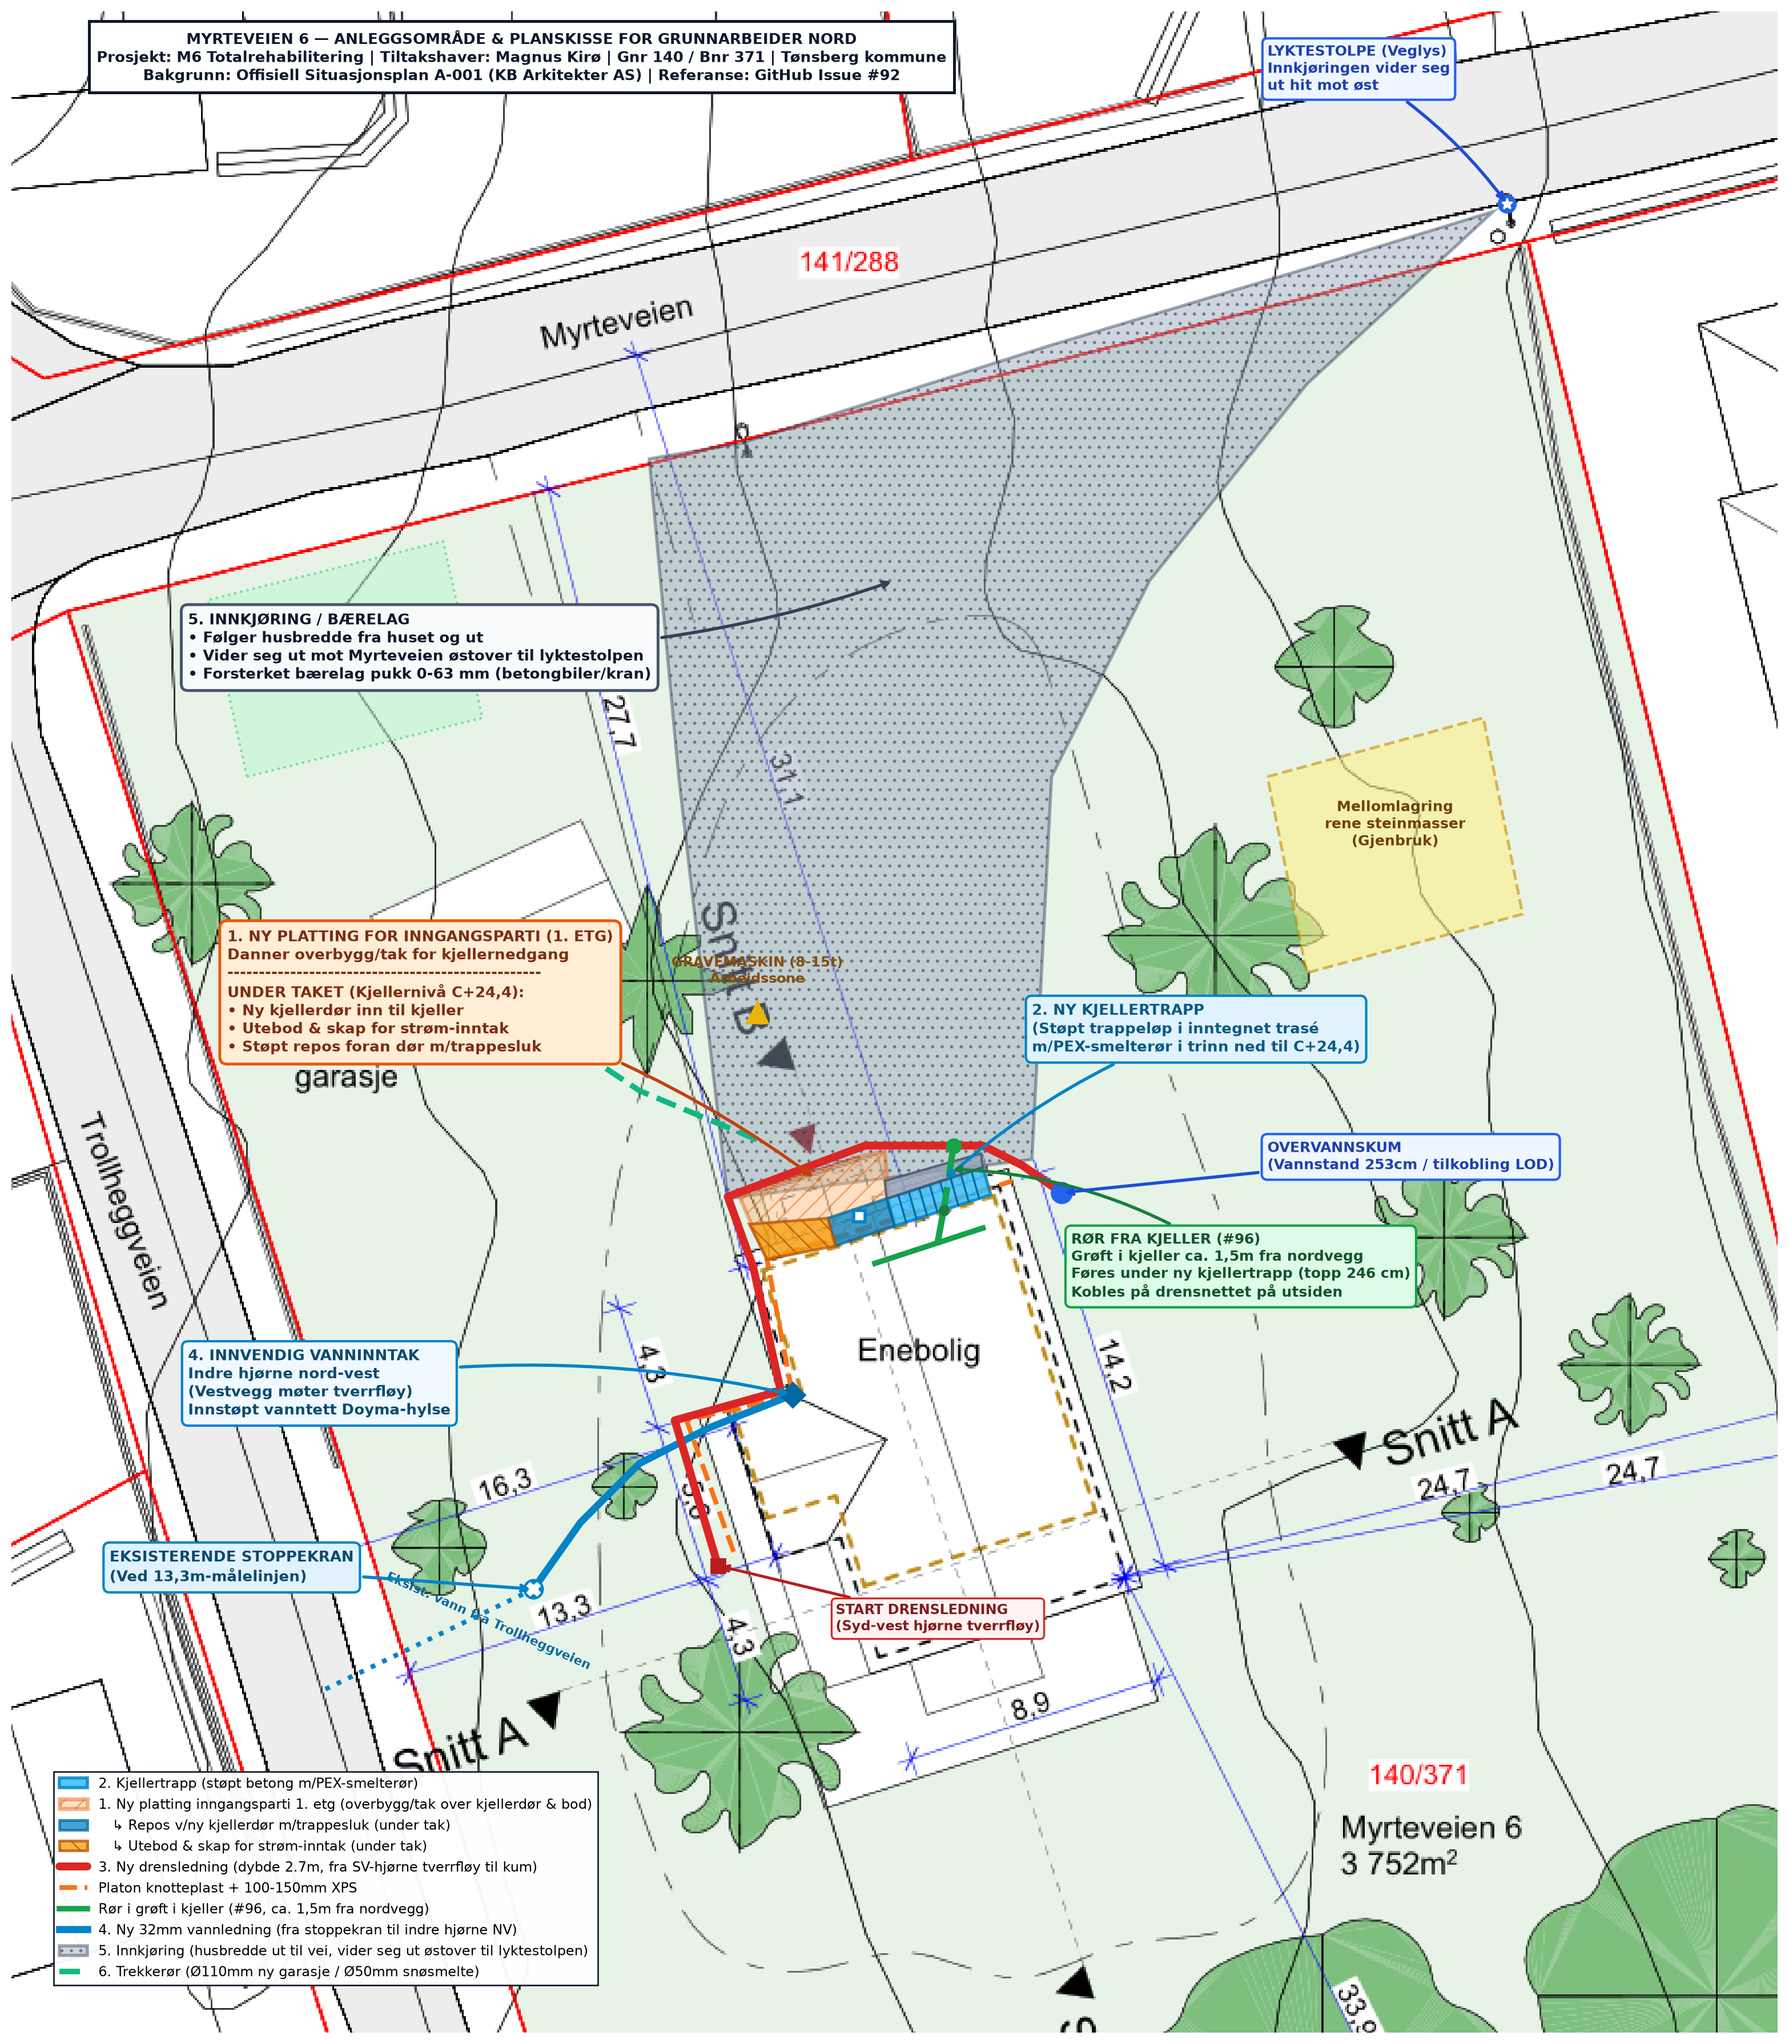
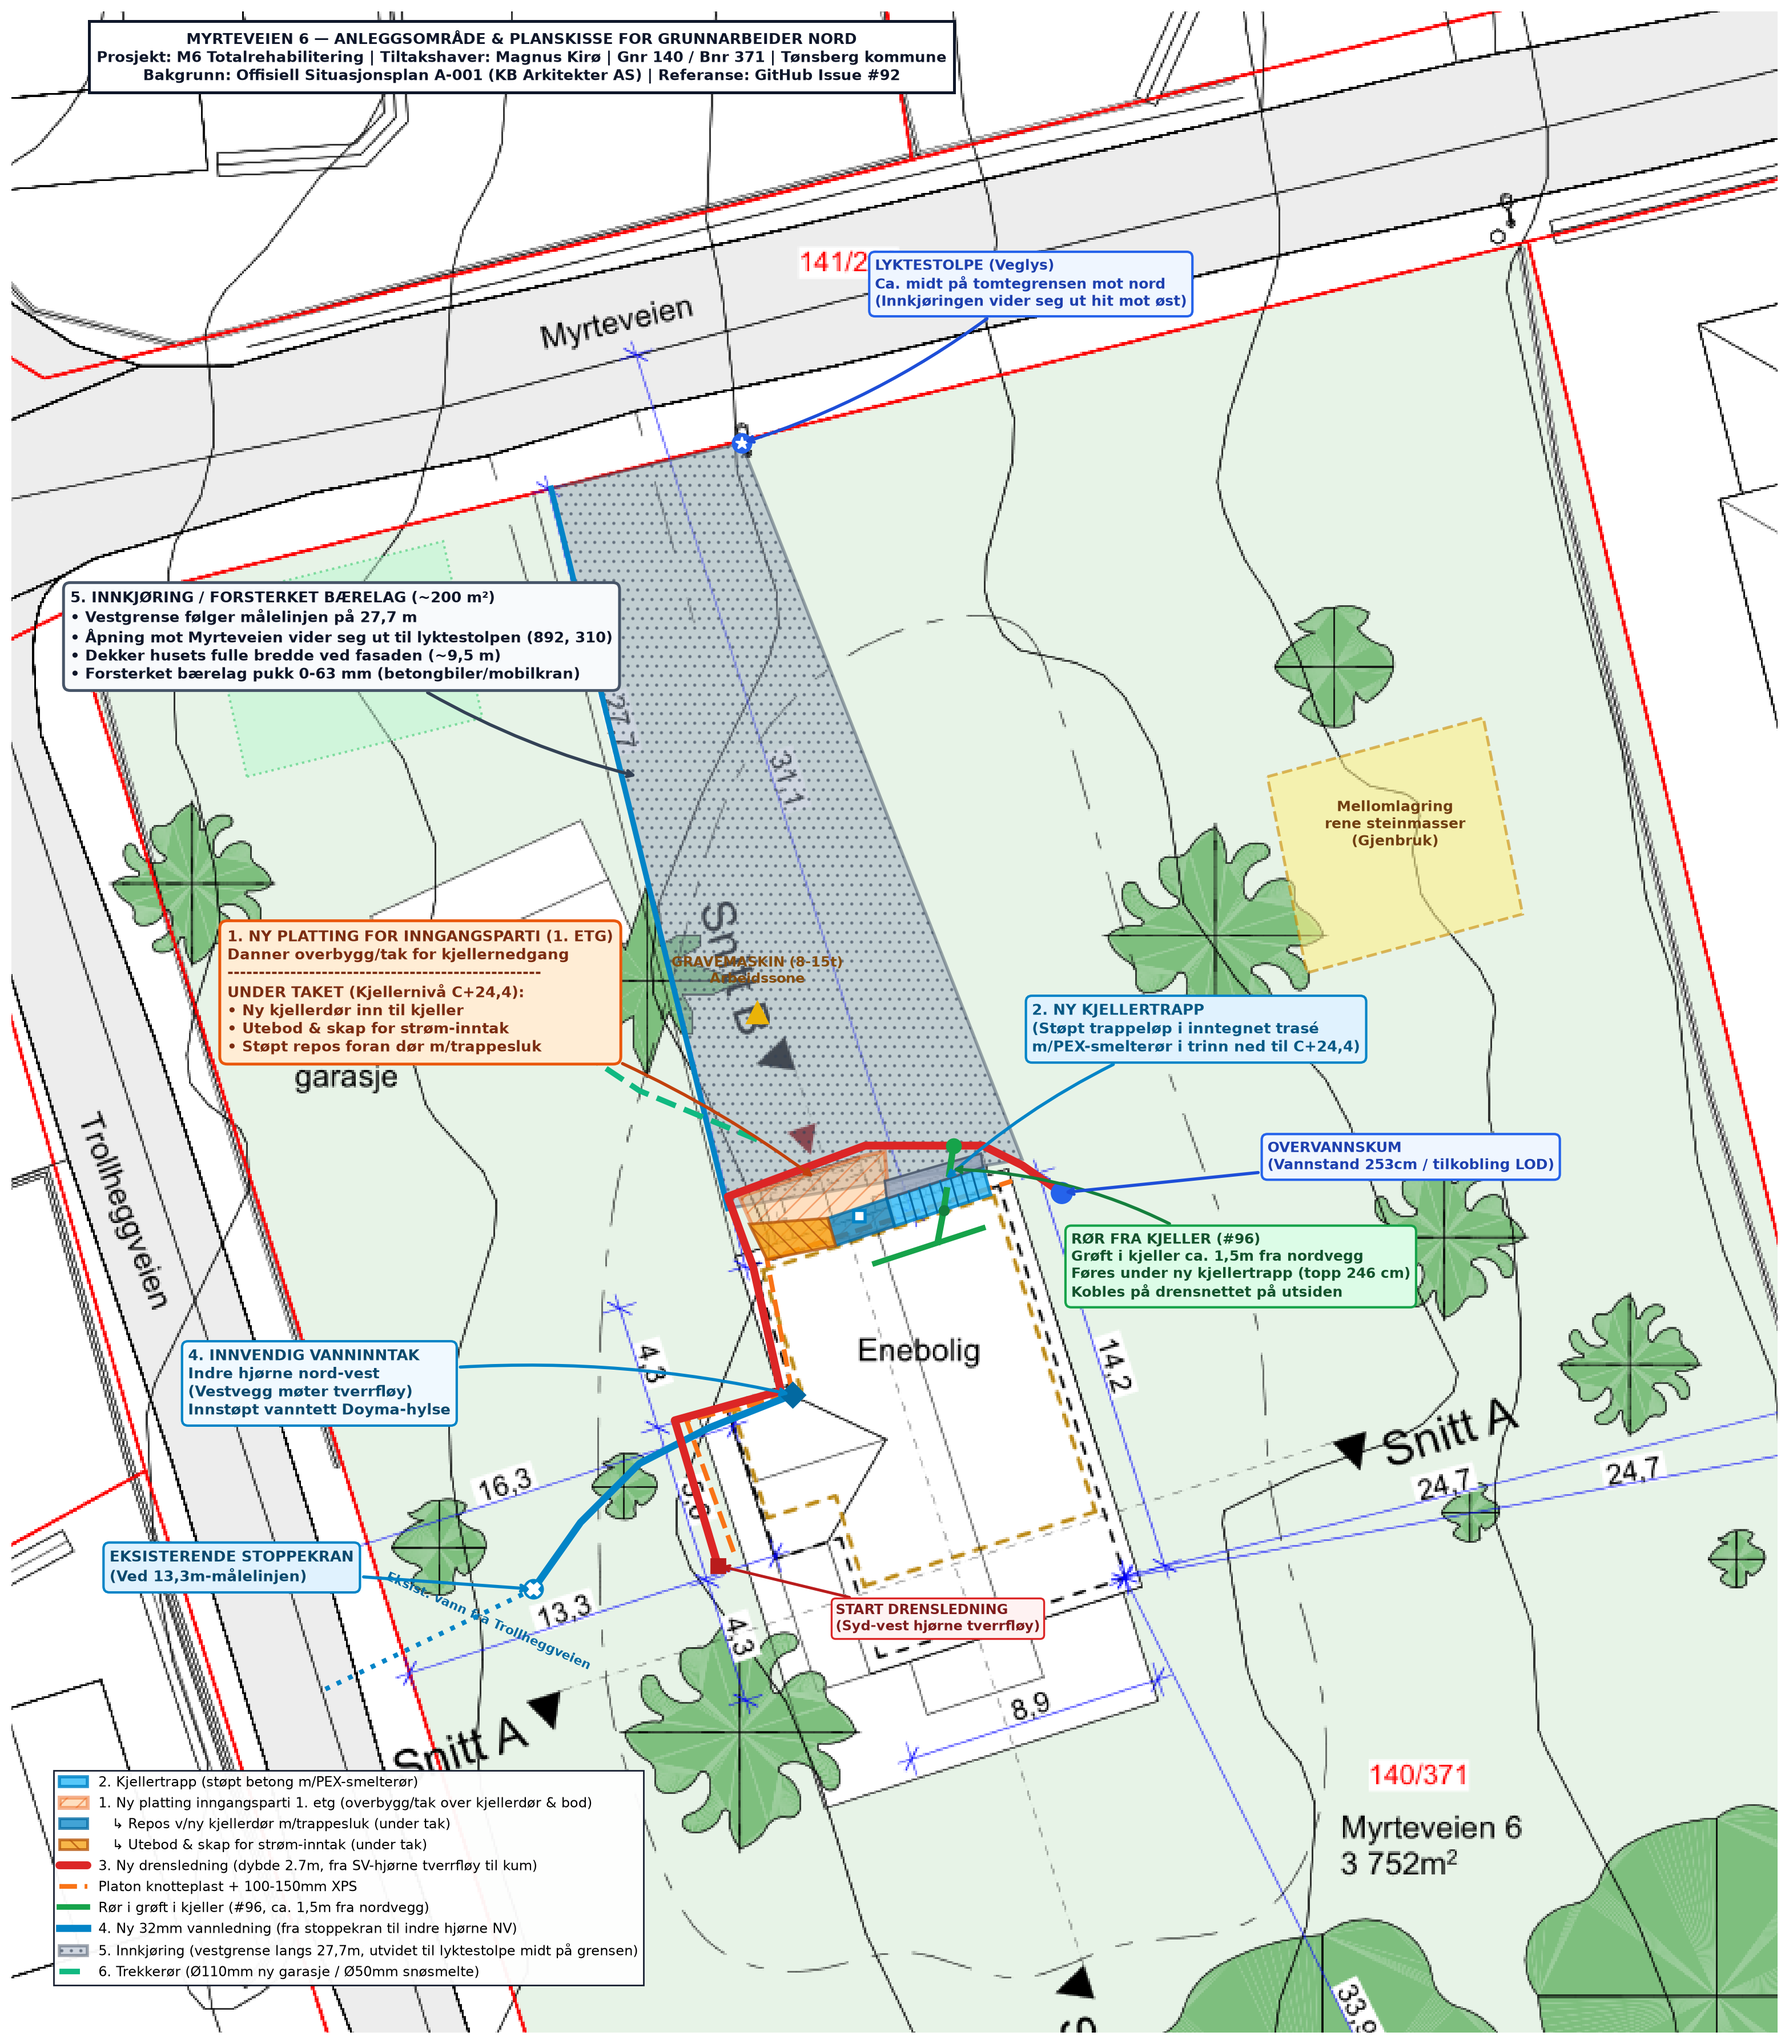
fix(nord): align driveway west edge to 27.7m line and lamppost at north boundary midpoint (#92)

diff --git a/scripts/generate_site_plan.py b/scripts/generate_site_plan.py
@@ -238,45 +238,44 @@ ax.annotate(
 )
 
 # -------------------------------------------------------------
-# 5. INNKJØRING (HUSBREDDE HELT UT TIL VEIEN, VIDER SEG UT MOT LYKTESTOLPEN)
+# 5. INNKJØRING (VESTGRENSE LANGS 27,7M, VIDER SEG UT TIL LYKTESTOLPEN MIDT PÅ NORDGRENSEN)
 # -------------------------------------------------------------
 driveway_pts = np.array([
-    [885, 695],   # Vestkant inngangsplatting / husbredde ved fasade
-    [860, 480],   # Eksisterende vestkant innkjøring
-    [845, 318],   # Møter Myrteveien i vest
-    [892, 310],   # Eksisterende stolpe langs Myrteveien
-    [1050, 260],  # Langs Myrteveien mot øst
-    [1200, 215],  # Langs Myrteveien mot øst
-    [1275, 192],  # Vider seg ut til lyktestolpen ved Myrteveien i øst
-    [1180, 280],  # Myk kurve/trakt innover
-    [1100, 380],  # Kurve mot husbredde-korridor
-    [1050, 480],  # Møter østkant av husbredde-korridoren
-    [1040, 675]   # Østkant kjellertrapp / husets østhjørne
+    [885, 700],   # Vestkant ved inngangsplatting / fasade (møter 27,7m-linjen)
+    [795, 333],   # Vestgrense ved Myrteveien (langs 27,7m målelinjen)
+    [892, 310],   # Østgrense ved Myrteveien: Lyktestolpe ca. midt på tomtegrensen
+    [1035, 675]   # Østkant ved kjellertrapp / husets nordøsthjørne (husets fulle bredde)
 ])
 drive_poly = Polygon(driveway_pts, closed=True, facecolor="#94a3b8", edgecolor="#334155",
                      lw=2, alpha=0.45, hatch="..", zorder=3,
-                     label="5. Innkjøring (husbredde ut til vei, vider seg ut østover til lyktestolpen)")
+                     label="5. Innkjøring (vestgrense langs 27,7m, utvidet til lyktestolpe midt på grensen)")
 ax.add_patch(drive_poly)
 
-# Markering og annotering for lyktestolpe på Myrteveien
-ax.plot(1282, 188, marker="o", markersize=11, color="#2563eb", zorder=12)
-ax.plot(1282, 188, marker="*", markersize=7, color="#ffffff", zorder=13)
+# Marker vestgrensen spesifikt langs 27,7m målelinjen
+ax.plot([885, 795], [700, 333], color="#0284c7", lw=3.5, ls="-", zorder=6)
+
+# Markering og annotering for lyktestolpe ca. midt på tomtegrensen mot nord (892, 310)
+ax.plot(892, 310, marker="o", markersize=12, color="#2563eb", zorder=12)
+ax.plot(892, 310, marker="*", markersize=8, color="#ffffff", zorder=13)
 ax.annotate(
-    "LYKTESTOLPE (Veglys)\nInnkjøringen vider seg\nut hit mot øst",
-    xy=(1282, 188), xytext=(1160, 130),
+    "LYKTESTOLPE (Veglys)\n"
+    "Ca. midt på tomtegrensen mot nord\n"
+    "(Innkjøringen vider seg ut hit mot øst)",
+    xy=(892, 310), xytext=(960, 240),
     arrowprops=dict(arrowstyle="->", color="#1d4ed8", lw=2, connectionstyle="arc3,rad=-0.1"),
     fontsize=9, weight="bold", color="#1e40af",
-    bbox=dict(boxstyle="round,pad=0.35", fc="#eff6ff", ec="#2563eb", lw=1.5),
+    bbox=dict(boxstyle="round,pad=0.4", fc="#eff6ff", ec="#2563eb", lw=1.5),
     zorder=14
 )
 
-# Annotering for innkjøring
+# Annotering for innkjøring og vestgrense
 ax.annotate(
-    "5. INNKJØRING / BÆRELAG\n"
-    "• Følger husbredde fra huset og ut\n"
-    "• Vider seg ut mot Myrteveien østover til lyktestolpen\n"
-    "• Forsterket bærelag pukk 0-63 mm (betongbiler/kran)",
-    xy=(970, 380), xytext=(610, 430),
+    "5. INNKJØRING / FORSTERKET BÆRELAG (~200 m²)\n"
+    "• Vestgrense følger målelinjen på 27,7 m\n"
+    "• Åpning mot Myrteveien vider seg ut til lyktestolpen (892, 310)\n"
+    "• Dekker husets fulle bredde ved fasaden (~9,5 m)\n"
+    "• Forsterket bærelag pukk 0-63 mm (betongbiler/mobilkran)",
+    xy=(840, 480), xytext=(550, 430),
     arrowprops=dict(arrowstyle="->", color="#334155", lw=2, connectionstyle="arc3,rad=0.1"),
     fontsize=9.5, weight="bold", color="#0f172a",
     bbox=dict(boxstyle="round,pad=0.45", fc="#f8fafc", ec="#475569", lw=1.8),

diff --git a/docs/ANBUDSFORESPORSEL_GRUNNARBEIDER_NORD.md b/docs/ANBUDSFORESPORSEL_GRUNNARBEIDER_NORD.md
@@ -130,8 +130,10 @@ flowchart TD
   * 1 stk. Ø50 mm rør for snøsmelting / styring i innkjøring.
   * Trekkerør for fiber og reserve.
 * **Forsterket bærelag og utvidelse av innkjøring:**
-  * Innkjøringen følger eksisterende trasé i husets fulle bredde fra huset og ut mot veien, men vider seg ut mot Myrteveien østover helt bort til eksisterende lyktestolpe (jf. planskisse).
-  * Dette gir optimal svingeradius og adkomst for betongbiler, kran og fremtidig parkering.
+  * Innkjøringens vestgrense følger målelinjen på 27,7 m helt ut til Myrteveien.
+  * Ved husfasaden dekker innkjøringen husets fulle bredde (inkl. trapp og inngangsparti, ca. 9,5 m bredde).
+  * Mot Myrteveien vider innkjøringen seg ut østover til eksisterende lyktestolpe ca. midt på tomtegrensen mot nord (jf. planskisse).
+  * Samlet areal for opparbeidelse er ca. 200 m². Dette gir optimal svingeradius og bæreevne for betongbiler, mobilkran og fremtidig parkering.
   * Utlegging av fiberduk klasse N3 i bunn.
   * Oppfylling og komprimering med 30–40 cm samfengt pukk (0–63 mm / 20–120 mm) dimensjonert for tungtrafikk.
 * **Tilbakefylling og planering:**
@@ -162,7 +164,7 @@ Alle priser oppgis ekskl. mva.
 | **4.4** | Påkobling av rør fra kjeller (#96) og tilkobling mot kum/LOD | RS | 1 | | |
 | **5.1** | Grøft og legging av ny 32mm vannledning fra stoppekran (13,3m) til indre NV-hjørne | lm | ca. 15 | | |
 | **6.1** | Levering og trekking av DV-rør (110mm / 50mm) | lm | ca. 40 | | |
-| **6.2** | Bærelag innkjøring (fiberduk N3 + 0–63 mm pukk, utvidet østover til lyktestolpe) | m² | ca. 200 | | |
+| **6.2** | Bærelag innkjøring (fiberduk N3 + 0–63 mm pukk, vestgrense langs 27,7m, utvidet til lyktestolpe) | m² | ca. 200 | | |
 | **6.3** | Tilbakefylling m/drensmasser og planering nord-vest | timer/m³ | Anslått | | |
 | **SUM** | **TOTAL FASTPRIS EKSKL. MVA** | | | | **NOK ________** |
 
